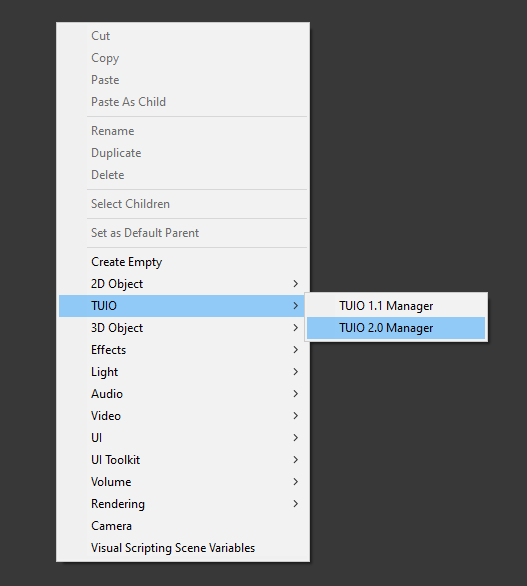
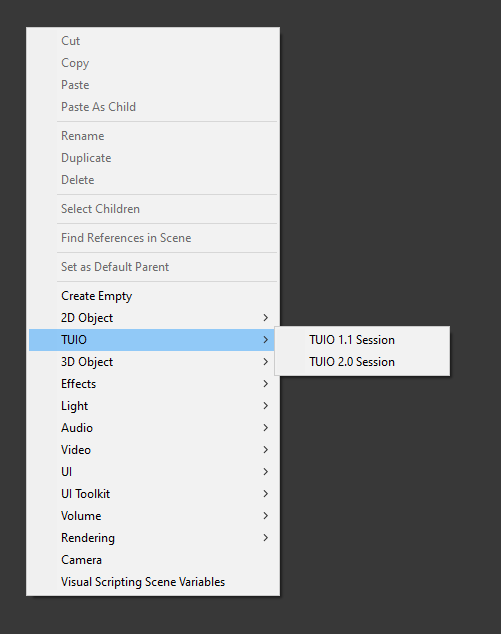
update documentation

Changed region(s): [[0.0299, 0.0307, 0.9281, 0.9829]]

diff --git a/README.md b/README.md
@@ -4,6 +4,9 @@
 <!-- ALL-CONTRIBUTORS-BADGE:END -->
 This package provides the functionality to use TUIO 1.1 or 2.0 in you Unity projects. It is based on [TuioNet](https://github.com/InteractiveScapeGmbH/TuioNet), a .Net implementation of the TUIO 1.1 and 2.0 specification by Martin Kaltenbrunner.
 
+## IMPORTANT
+**Version 2.0 introduces breaking changes. Take care when hitting the update button in the package manager!**
+
 ## Overview
 
 A TUIO Client package to enable the easy creation of apps and games that interface with TUIO capable hardware and software for tangible input.
@@ -48,34 +51,111 @@ This package has not been tested outside of Windows, however should be compatibl
 
 ## Workflows
 
-- Create a TUIO 1.1 Manager or TUIO 2.0 Manager in your scene using GameObject > TUIO in the main Unity window or Right Click > TUIO in the Hierarchy.
+- Create a TUIO 1.1 Session or TUIO 2.0 Session in your scene using GameObject > TUIO in the main Unity window or Right Click > TUIO in the Hierarchy.
 
 ![Create Tuio Manager](Documentation~/img/add-manager.png)
-- Create a TUIO Manager Settings object in your Assets folder using Right Click > TUIO in the Project window. Reference the created TUIO Manager Settings asset from the TUIO 1.1 Manager or TUIO 2.0 Manager in the Hierarchy.
-![Add Settings](Documentation~/img/add-settings.png)
 
-Set the desired TUIO Manager Settings (see Reference).
+Set the desired TUIO Session Settings (see Reference).
 
 ![Manager Settings](Documentation~/img/settings.png)
 
-Create scripts that implement the Tuio11Listener or Tuio20Listener interface and subscribe them to the manager using ```Tuio11Manager.Instance.AddTuio11Listener(this)``` or ```Tuio20Manager.Instance.AddTuio20Listener(this)```. Use the
-appropriate callbacks to implement your own TUIO application. Within the sample projects examples are given with the ```Tuio11Visualizer.cs``` and ```Tuio20Visualizer.cs``` which spawn simple Cursor/Pointer or Objects/Tokens. 
+### Simple Setup
+- Add a TUIO 1.1 or TUIO 2.0 Visualizer from the `Prefabs` folder of the package to your scene
+- Set the reference to the `Tuio Session` and make sure all references to Tuio Prefabs are set (you can find them in the `Prefabs` folder of the packge too.)
 
-GameObjects which should appear as Cursors/Pointers and Objects/Tokens need an appropriate script attached to them the following are included in this package:
-- ```Tuio11CursorBehaviour.cs```
-- ```Tuio11ObjectBehaviour.cs```
-- ```Tuio20PointerBehaviour.cs```
-- ```Tuio20TokenBehaviour.cs```
+![Tuio Visualizer](Documentation~/img/tuio-visualizer.png)
 
+### Advanced Setup
+The TUIO Visualizer Prefabs are just for testing purpose to check if everything works as expected. But they are simple examples how to implement your own custom solution. The most important component is the `TuioDispatcher`. There is one for Tuio 1.1 (`Tuio11Dispatcher`) and Tuio 2.0 (`Tuio20Dispatcher`). They provide all events you need to. You can access the dispatcher through the `TuioSession` object.
+
+In general there are four types of events we care about. `Add`, `Update`, `Remove` and `Refresh`. 
+- `Add`/`Remove`: are called once when a touch or an object gets placed or removed from the table
+- `Update`: is called everytime when a property of a touch or an object was changed this frame (e.g. it was moved or rotated)
+- `Refresh`: is called every frame. This can be helpful if you want to handle all updates conained in one TUIO frame together
+
+There are some little differences between Tuio 1.1 and Tuio 2.0 for `Add`, `Remove` and `Update`.
+
+#### TUIO 1.1
+- there are `Add`, `Remove` and `Update` events for each type of tuio objects (`Touch`, `Object`, `Blob`)
+```csharp
+public event Action<Tuio11Cursor> OnCursorAdd;
+public event Action<Tuio11Cursor> OnCursorUpdate;
+public event Action<Tuio11Cursor> OnCursorRemove;
+
+public event Action<Tuio11Object> OnObjectAdd;
+public event Action<Tuio11Object> OnObjectUpdate;
+public event Action<Tuio11Object> OnObjectRemove;
+
+public event Action<Tuio11Blob> OnBlobAdd;
+public event Action<Tuio11Blob> OnBlobUpdate;
+public event Action<Tuio11Blob> OnBlobRemove;
+```
+
+#### TUIO 2.0
+- for tuio 2.0 things are handled a little bit differently. There is only one `Add`, `Remove` and `Update` event. 
+```csharp
+public event Action<Tuio20Object> OnObjectAdd;
+public event Action<Tuio20Object> OnObjectUpdate;
+public event Action<Tuio20Object> OnObjectRemove;
+```
+The `Tuio20Object` can hold different Tuio 2.0 types simultaneously and has methods to check which type it contains:
+
+**Tuio20Object.cs**
+```csharp
+ public bool ContainsTuioToken() => this.Token != null;
+
+public bool ContainsTuioPointer() => this.Pointer != null;
+
+public bool ContainsTuioBounds() => this.Bounds != null;
+
+public bool ContainsTuioSymbol() => this.Symbol != null;
+
+public bool ContainsNewTuioToken()
+{
+  Tuio20Token token = this.Token;
+  return token != null && token.State == TuioState.Added;
+}
+
+public bool ContainsNewTuioPointer()
+{
+  Tuio20Pointer pointer = this.Pointer;
+  return pointer != null && pointer.State == TuioState.Added;
+}
+
+public bool ContainsNewTuioBounds()
+{
+  Tuio20Bounds bounds = this.Bounds;
+  return bounds != null && bounds.State == TuioState.Added;
+}
+
+public bool ContainsNewTuioSymbol()
+{
+  Tuio20Symbol symbol = this.Symbol;
+  return symbol != null && symbol.State == TuioState.Added;
+}
+```
+
+You can then access the object you want by public properties of the `Tuio20Object`
+
+```csharp
+public Tuio20Token Token { get; private set; }
+
+public Tuio20Pointer Pointer { get; private set; }
+
+public Tuio20Bounds Bounds { get; private set; }
+
+public Tuio20Symbol Symbol { get; private set; }
+```
 
 ## Reference
 
 | **Field** | **Format** | **Description** |
 |--|--|--|
+|Tuio Version|Tuio 1.1/ Tuio 2.0| Version of the Tuio specification you want to use
 |Tuio Connection Type | Websocket / UDP | The connection type to use
 | Udp Port | 0 - 9999 | The local port to receive UDP messages on |
 | Websocket Address | IPv4 address   | The remote address to connect to websocket server
-| Websocket Port | 0 - 9999 | The remote port to connect to the websocket server |
+
 
 
 ## Samples
